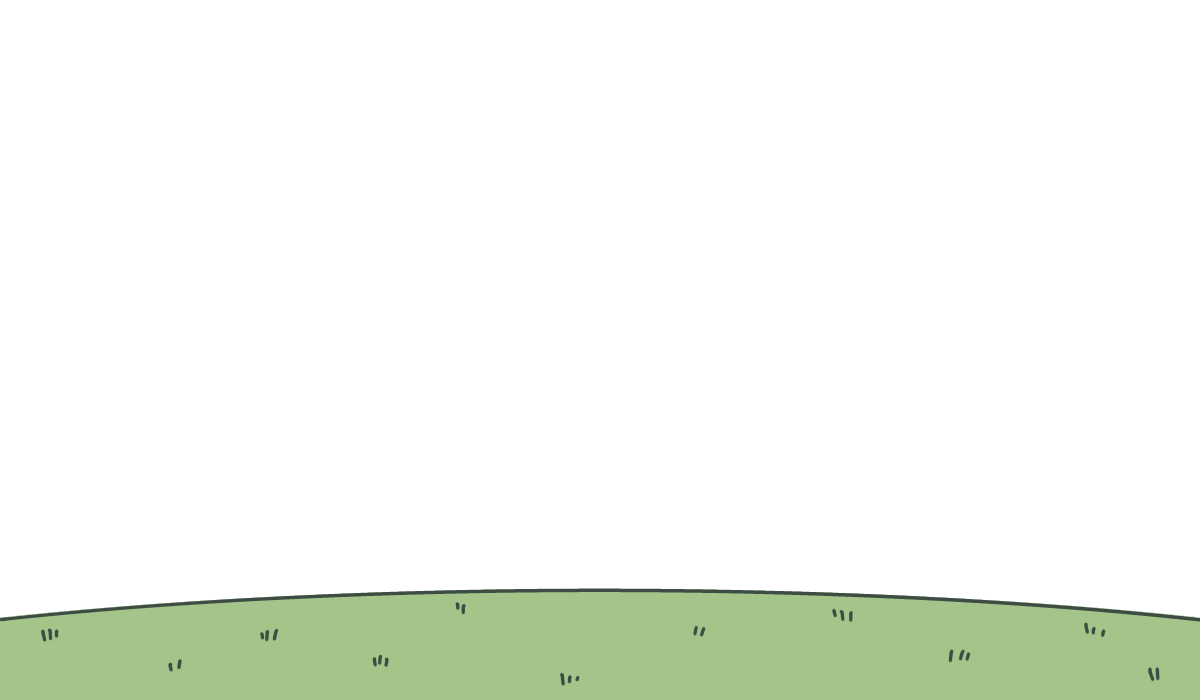
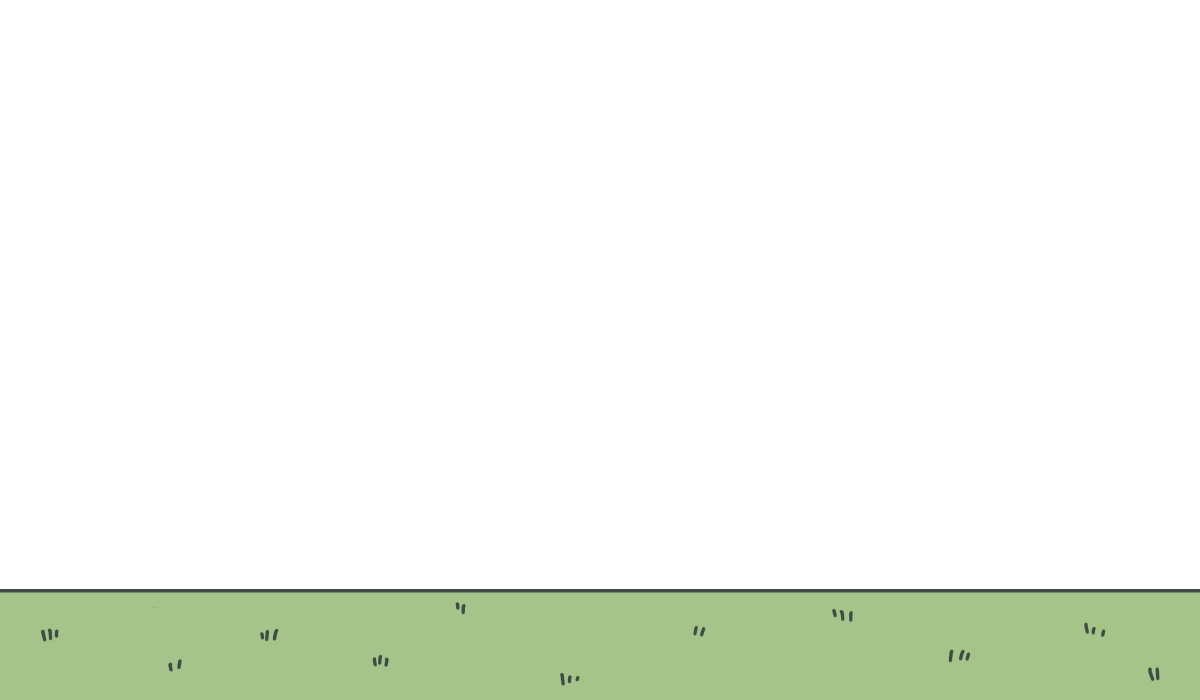
Add background image x-axis tiling

Changed region(s): [[0.5858, 0.84, 1.0, 0.9], [0.0, 0.84, 0.4008, 0.9]]

diff --git a/index.html b/index.html
@@ -21,7 +21,7 @@
       justify-content: center;
       align-items: center;
       min-height: 100vh;
-      background: url('images/BG_Grass.PNG') no-repeat center bottom fixed;
+      background: url('images/BG_Grass.PNG') repeat-x center bottom fixed;
       background-color: #b7c9db;
       /* background-color: #cad9cb; */
       cursor: url('images/Cursor_Hover_Clover.PNG') 3 3, auto; /* custom body cursor */
